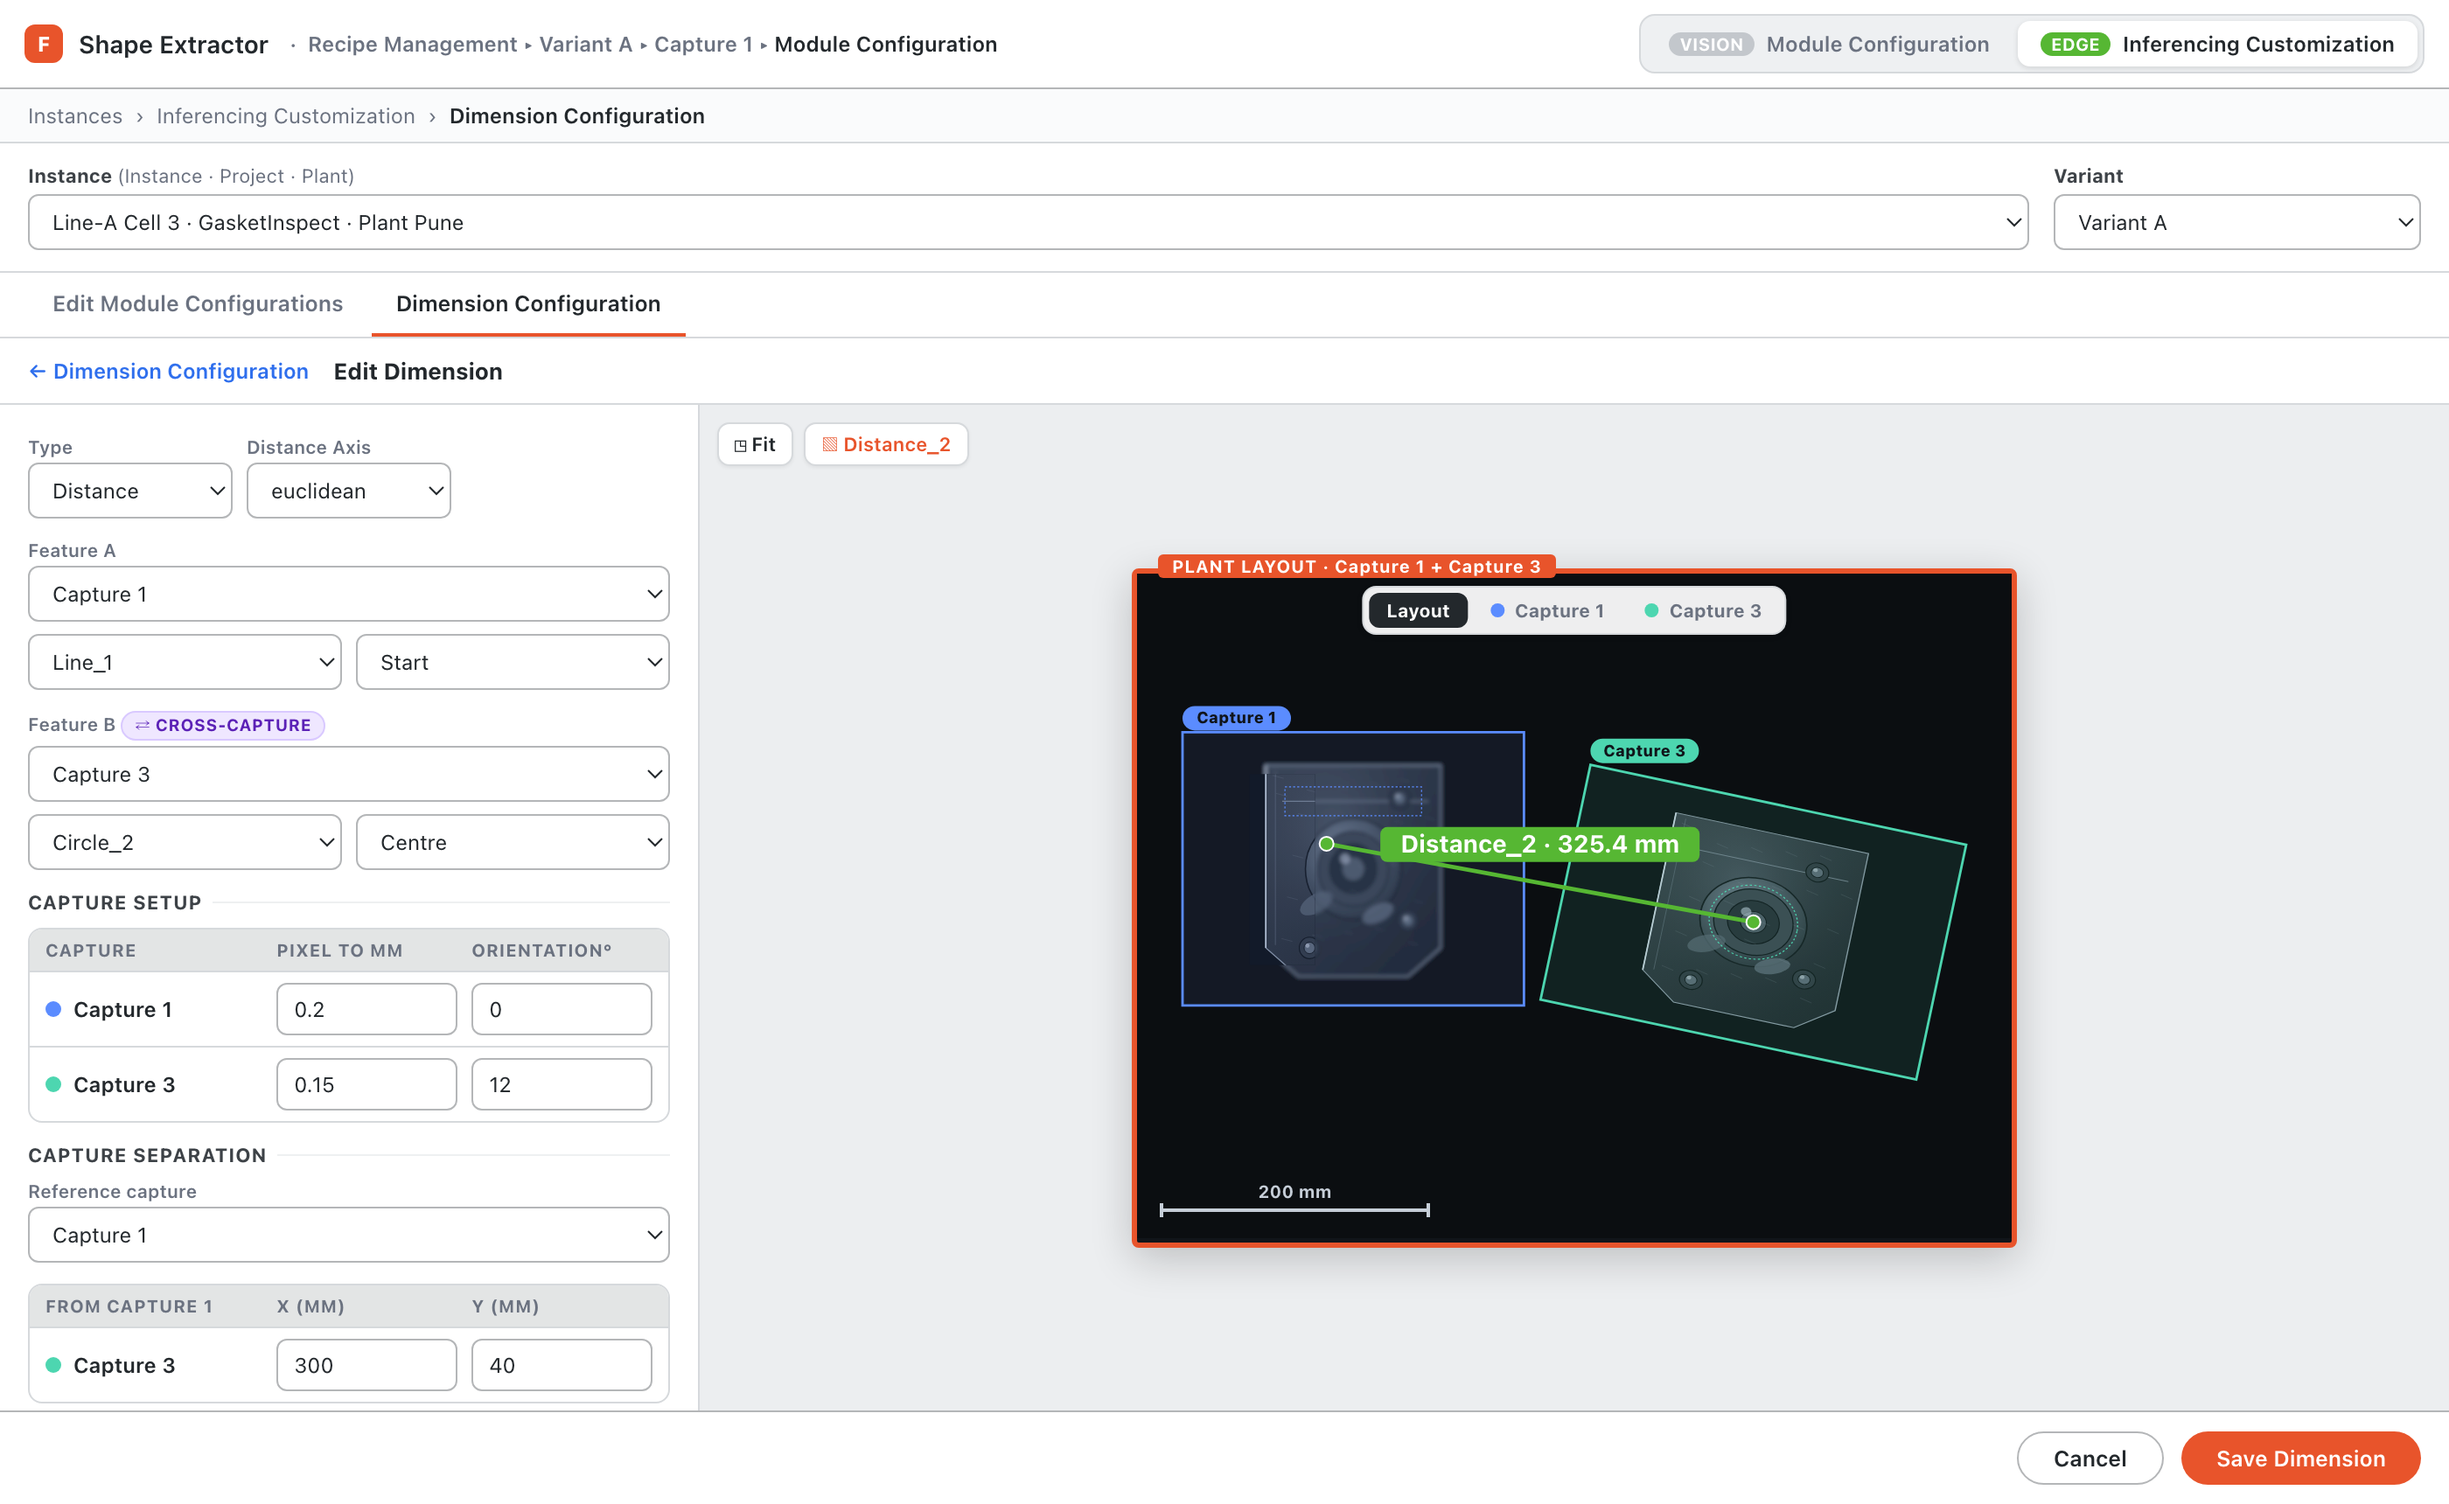
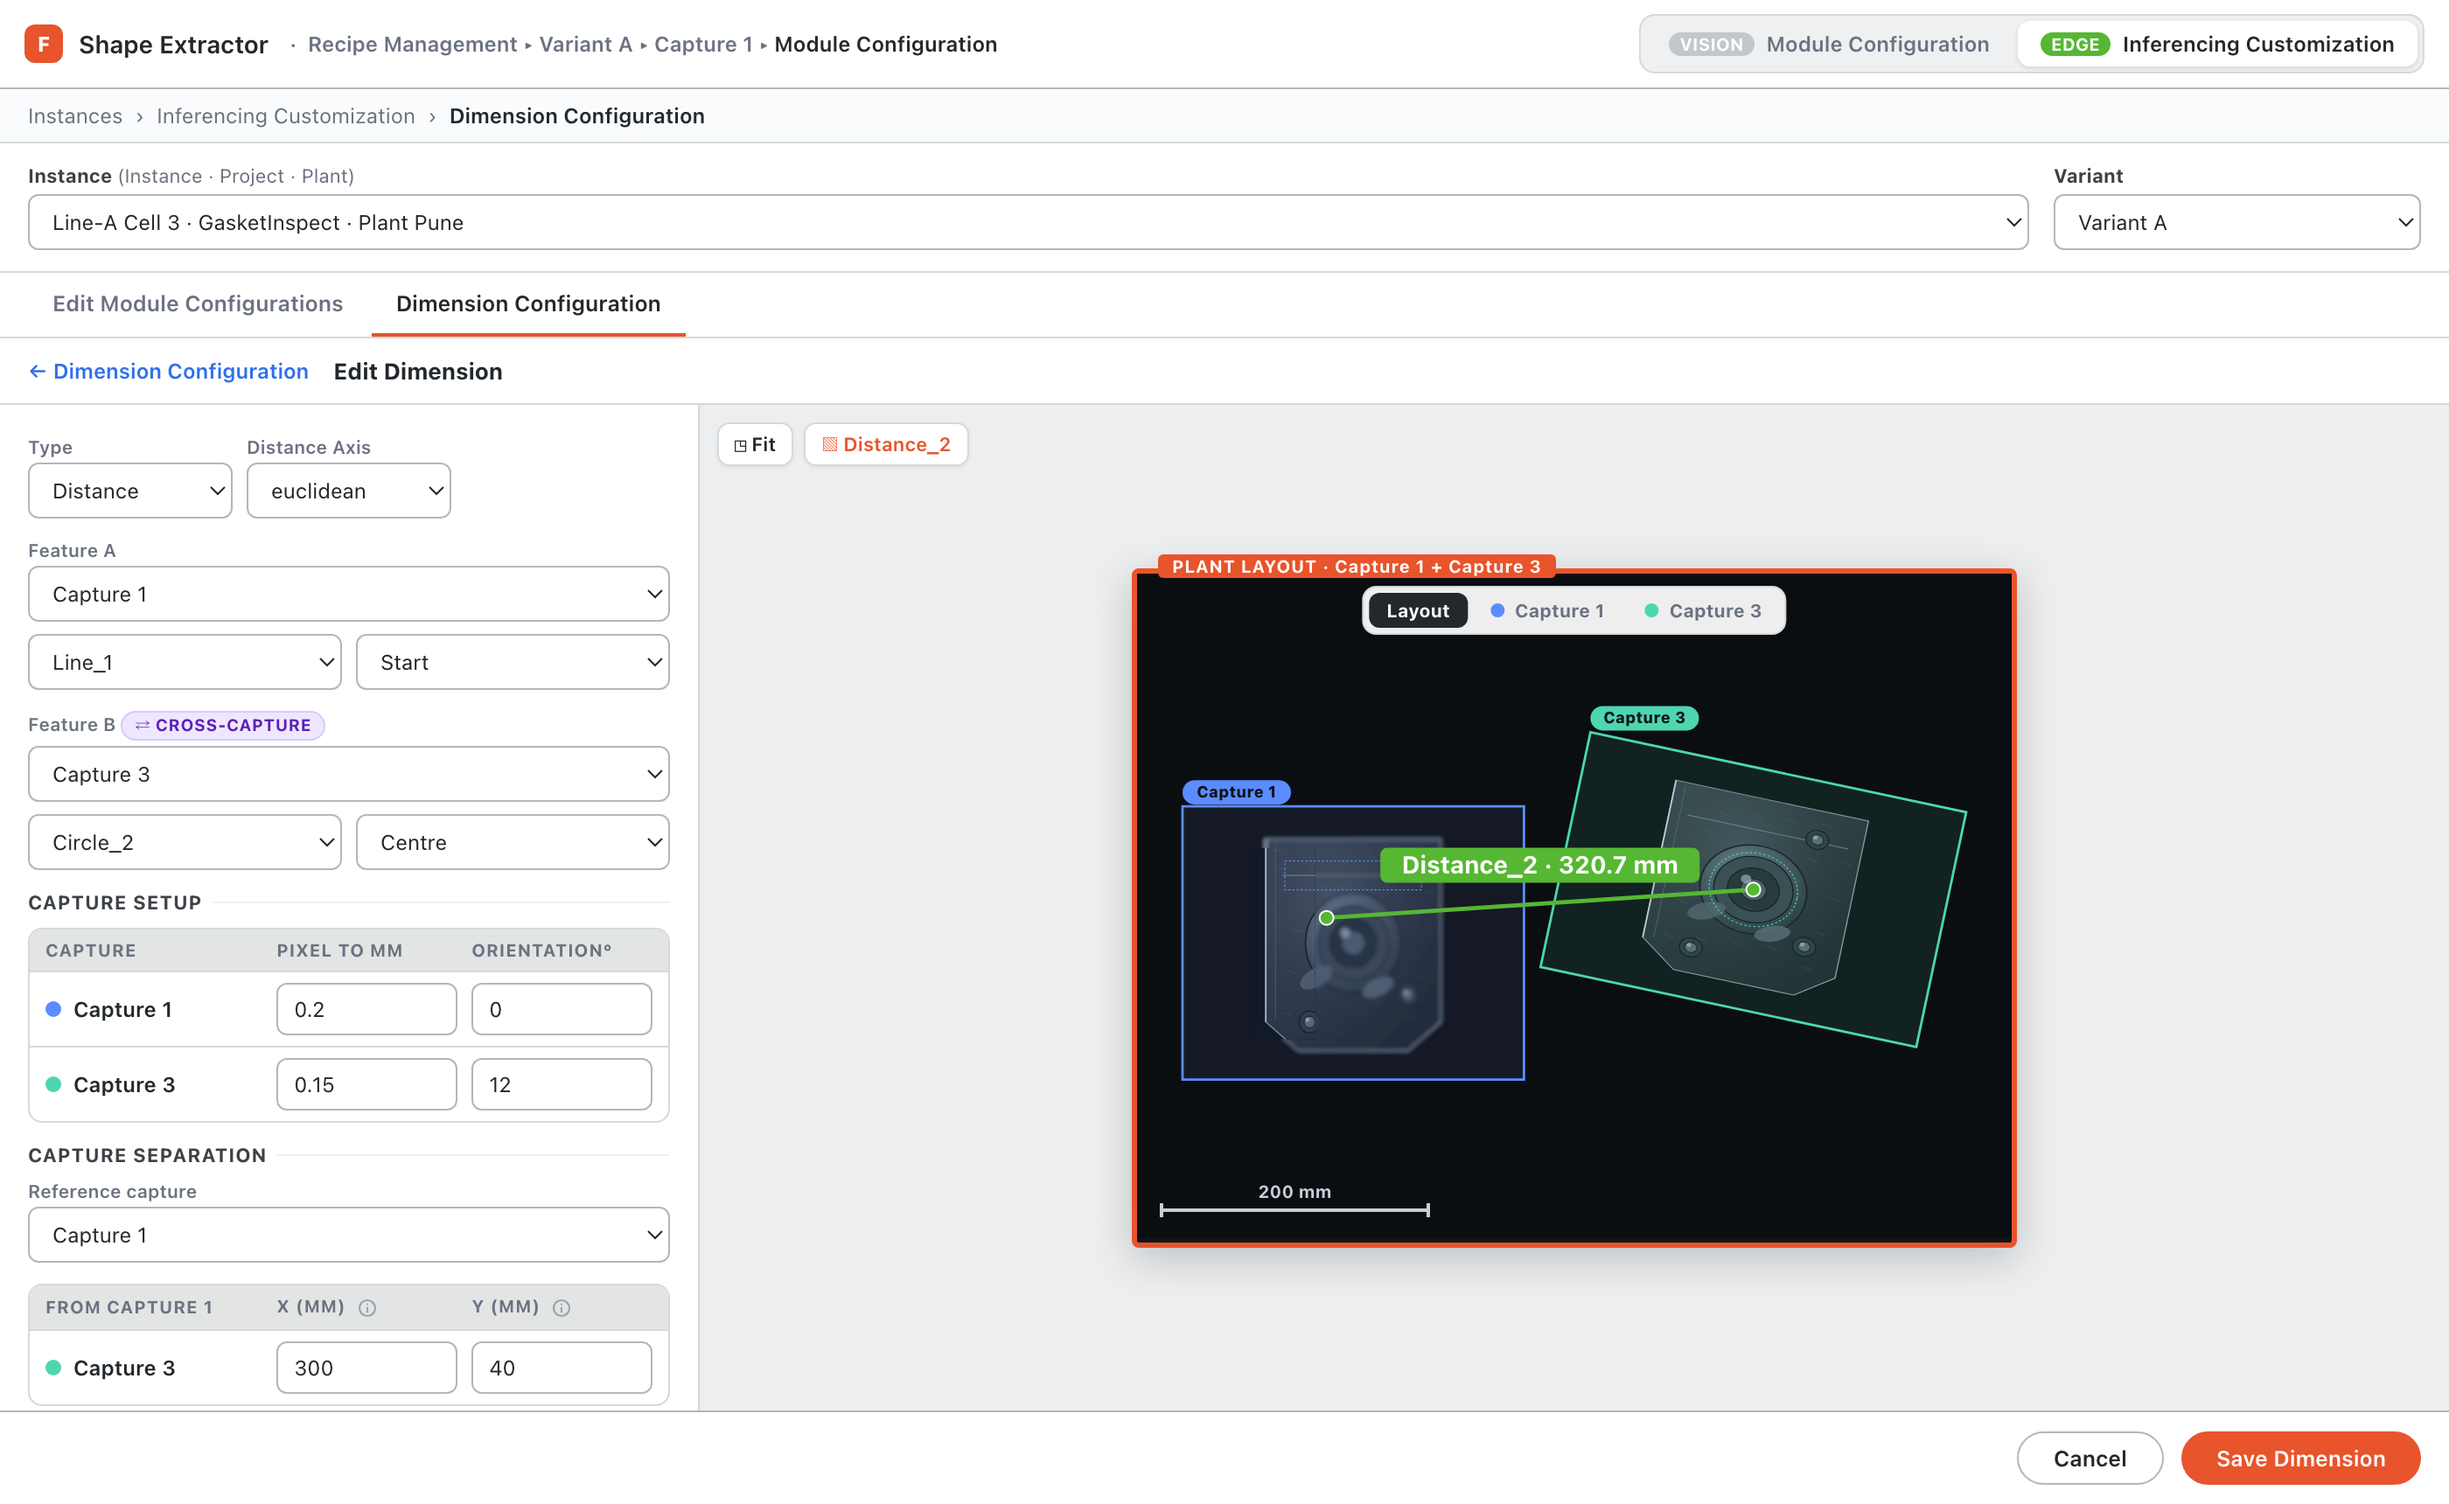
Capture -> shape -> point restored for every type; capture layout only appears when a dimension spans captures. Y separation reads bottom-to-top, X left-to-right, both with info tooltips. Changing the reference capture re-bases every separation

diff --git a/index.html b/index.html
@@ -406,10 +406,15 @@ const DEFAULT_LAYOUT = {
 // image footprint in mm = declared pixel size x the capture's ratio
 const capMM = (layout, id) => { const c = capById(id), r = layout.ratio[id] || 0.2; return { w: c.w * r, h: c.h * r }; };
 // a point in a capture's pixel space -> the variant's shared mm world
+// Separation is entered the way a person reads a layout drawing: X left to right, Y BOTTOM TO TOP.
+// The canvas draws with Y increasing downward, so the operator's Y is negated here, at the one
+// boundary where it enters the model. Everything downstream stays in drawing coordinates.
+const offInternal = (layout, id) => { const o = layout.offset[id] || { x: 0, y: 0 }; return { x: o.x, y: -o.y }; };
+
 function toWorld(layout, capId, px, py, imgW, imgH) {
   const r = layout.ratio[capId] || 0.2;
   const a = ((layout.angle[capId] || 0) * Math.PI) / 180;
-  const off = layout.offset[capId] || { x: 0, y: 0 };
+  const off = offInternal(layout, capId);
   const lx = (px - imgW / 2) * r, ly = (py - imgH / 2) * r;      // mm from this image's centre
   return [off.x + lx * Math.cos(a) - ly * Math.sin(a),
           off.y + lx * Math.sin(a) + ly * Math.cos(a)];
@@ -917,6 +922,14 @@ function ConfirmModal({ open, onKeep, onDiscard }) {
 }
 function TrashIcon() {
   return (<svg width="15" height="15" viewBox="0 0 24 24" fill="none" stroke="#6b7280" strokeWidth="2" strokeLinecap="round" strokeLinejoin="round"><polyline points="3 6 5 6 21 6" /><path d="M19 6l-1 14a2 2 0 0 1-2 2H8a2 2 0 0 1-2-2L5 6" /><path d="M10 11v6M14 11v6" /><path d="M9 6V4a2 2 0 0 1 2-2h2a2 2 0 0 1 2 2v2" /></svg>);
+}
+function InfoIcon() {
+  return (
+    <svg width="12" height="12" viewBox="0 0 24 24" fill="none" stroke="currentColor" strokeWidth="2.2">
+      <circle cx="12" cy="12" r="9" /><line x1="12" y1="11.5" x2="12" y2="16.5" strokeLinecap="round" />
+      <circle cx="12" cy="7.6" r="1.1" fill="currentColor" stroke="none" />
+    </svg>
+  );
 }
 function PencilIcon() {
   return (<svg width="13" height="13" viewBox="0 0 24 24" fill="none" stroke="currentColor" strokeWidth="2" strokeLinecap="round" strokeLinejoin="round"><path d="M12 20h9" /><path d="M16.5 3.5a2.12 2.12 0 0 1 3 3L7 19l-4 1 1-4L16.5 3.5z" /></svg>);
@@ -1496,7 +1509,7 @@ function seedDims(shapes) {
       distanceAxis: 'euclidean',
       captureOneId: cap('Line_1'), shapeOneId: id('Line_1'), shapeOneSelector: 'Start',
       captureTwoId: cap('Circle_2'), shapeTwoId: id('Circle_2'), shapeTwoSelector: 'Centre',
-      operator: 1, targetValue: 325, tolerance: 2, unit: 'mm',
+      operator: 1, targetValue: 320.7, tolerance: 2, unit: 'mm',
     }),
     base(1, 'Angle_1', {
       captureOneId: cap('Line_1'), shapeOneId: id('Line_1'), shapeOneSelector: 'Whole line',
@@ -1773,7 +1786,7 @@ function DimensionCanvas({ dim, shapes, layout }) {
   // ---- place every capture's footprint in the mm world, then fit the lot to the viewport ----
   const placed = caps.map((cid) => {
     const mm = capMM(layout, cid);
-    const off = layout.offset[cid] || { x: 0, y: 0 };
+    const off = offInternal(layout, cid);
     const ang = layout.angle[cid] || 0;
     const a = (ang * Math.PI) / 180, cs = Math.cos(a), sn = Math.sin(a);
     const corners = [[-mm.w / 2, -mm.h / 2], [mm.w / 2, -mm.h / 2], [mm.w / 2, mm.h / 2], [-mm.w / 2, mm.h / 2]]
@@ -1952,7 +1965,16 @@ function FeatureCascade({ node, patch, shapes, typeOpts, onType }) {
       ? { captureOneId: capId, shapeOneId: s0 ? s0.id : '', shapeOneSelector: defaultSelector(s0, node.type) }
       : { captureTwoId: capId, shapeTwoId: s0 ? s0.id : '', shapeTwoSelector: defaultSelector(s0, node.type) };
   };
-  const changeCaptureA = (capId) => patch(seedFeature('one', capId));
+  const changeCaptureA = (capId) => {
+    if (cfg.cross) return patch(seedFeature('one', capId));
+    // a type confined to one capture drags Feature B along with Feature A
+    const list = shapesIn(capId);
+    const s0 = list[0], s1 = list[1] || list[0];
+    patch({
+      captureOneId: capId, shapeOneId: s0 ? s0.id : '', shapeOneSelector: defaultSelector(s0, node.type),
+      captureTwoId: capId, shapeTwoId: s1 ? s1.id : '', shapeTwoSelector: defaultSelector(s1, node.type),
+    });
+  };
   const changeShape = (which, id) => {
     const sel = defSel(id);
     patch(which === 'one' ? { shapeOneId: id, shapeOneSelector: sel } : { shapeTwoId: id, shapeTwoSelector: sel });
@@ -1985,7 +2007,7 @@ function FeatureCascade({ node, patch, shapes, typeOpts, onType }) {
       </div>
       <div className="field">
         <span className="tinylab">{twoFeatures ? 'Feature A' : 'Feature'}</span>
-        {cfg.cross && captureSelect(capA, capOptsA, changeCaptureA)}
+        {captureSelect(capA, capOptsA, changeCaptureA)}
         <div className="feat">
           {shapeSelect(node.shapeOneId, capA, (e) => changeShape('one', e.target.value))}
           {showSubA && <select className="sel" value={node.shapeOneSelector} onChange={(e) => patch({ shapeOneSelector: e.target.value })}>{subOptsFor(node.shapeOneId).map((f) => <option key={f}>{f}</option>)}</select>}
@@ -2015,62 +2037,59 @@ function DimensionForm({ draft, setDraft, shapes, layout, setLayout }) {
   const changeType = (type) => patch({ type, name: DIM_TYPE_CFG[type].name + '_' + nameSuffix,
     ...typeDefaults(type, shapes, draft.captureOneId) });
 
-  // Types other than Distance live in a single capture, so the capture is picked here rather than
-  // being repeated in Feature A and Feature B.
-  const shapesInCap = (capId) => shapes.filter((x) => x.captureId === capId && shapeQualifies(x, draft.type));
-  const soleCapOpts = CAPTURES.filter((c) => shapesInCap(c.id).length > 0);
-  const changeSoleCapture = (capId) => {
-    const list = shapesInCap(capId);
-    const s0 = list[0], s1 = list[1] || list[0];
-    patch({
-      captureOneId: capId, shapeOneId: s0 ? s0.id : '', shapeOneSelector: defaultSelector(s0, draft.type),
-      captureTwoId: capId, shapeTwoId: s1 ? s1.id : '', shapeTwoSelector: defaultSelector(s1, draft.type),
-    });
-  };
-
   const caps = capturesUsed(draft);
   const ref = layout.referenceId;
   const setRatio = (id, v) => setLayout({ ...layout, ratio: { ...layout.ratio, [id]: v } });
   const setAngle = (id, v) => setLayout({ ...layout, angle: { ...layout.angle, [id]: v } });
   const setOffset = (id, k, v) => setLayout({ ...layout,
     offset: { ...layout.offset, [id]: { ...(layout.offset[id] || { x: 0, y: 0 }), [k]: v } } });
+  // Changing the reference re-expresses every separation against the new origin, overriding what was
+  // entered before: the new reference becomes (0, 0) and the old one picks up the inverse.
+  const changeReference = (newRef) => {
+    const base = layout.offset[newRef] || { x: 0, y: 0 };
+    const next = {};
+    CAPTURES.forEach((c) => {
+      const o = layout.offset[c.id] || { x: 0, y: 0 };
+      next[c.id] = { x: o.x - base.x, y: o.y - base.y };
+    });
+    setLayout({ ...layout, referenceId: newRef, offset: next });
+  };
   const others = caps.filter((c) => c !== ref);
 
   return (
     <div style={{ padding: '4px 2px' }}>
       <FeatureCascade node={draft} patch={patch} shapes={shapes} typeOpts={DIM_TYPE_OPTS} onType={changeType} />
 
-      {/* ---- how each capture maps into the variant's millimetre world ---- */}
-      <div className="block-t" style={{ marginTop: 12 }}>Capture Setup <span className="ln" /></div>
-      <div className="captbl">
-        <div className="cth"><span>Capture</span><span>Pixel to mm</span><span>Orientation°</span></div>
-        {caps.map((cid) => (
-          <div className="ctr" key={cid}>
-            {cfg.cross
-              ? <span className="cname"><span className="cd" style={{ background: capById(cid).tint }} />{capLabel(cid)}</span>
-              : <select className="sel" value={cid} onChange={(e) => changeSoleCapture(e.target.value)}>
-                  {soleCapOpts.map((c) => <option key={c.id} value={c.id}>{c.name}</option>)}
-                </select>}
-            <input className="inp" type="number" min="0" step="0.001" value={layout.ratio[cid] ?? 0.2}
-              onChange={(e) => setRatio(cid, Math.max(0, Number(e.target.value)))} />
-            <input className="inp" type="number" step="0.5" value={layout.angle[cid] ?? 0}
-              onChange={(e) => setAngle(cid, Number(e.target.value))} />
-          </div>
-        ))}
-      </div>
-
-      {/* ---- where the capture centres sit relative to one another ---- */}
-      {cfg.cross && caps.length > 1 && (
+      {/* ---- the capture layout only exists to relate TWO captures; a single-capture dimension
+              needs nothing but its scale, which is asked for with the ground truth below ---- */}
+      {caps.length > 1 && (
         <Fragment>
+          <div className="block-t" style={{ marginTop: 12 }}>Capture Setup <span className="ln" /></div>
+          <div className="captbl">
+            <div className="cth"><span>Capture</span><span>Pixel to mm</span><span>Orientation°</span></div>
+            {caps.map((cid) => (
+              <div className="ctr" key={cid}>
+                <span className="cname"><span className="cd" style={{ background: capById(cid).tint }} />{capLabel(cid)}</span>
+                <input className="inp" type="number" min="0" step="0.001" value={layout.ratio[cid] ?? 0.2}
+                  onChange={(e) => setRatio(cid, Math.max(0, Number(e.target.value)))} />
+                <input className="inp" type="number" step="0.5" value={layout.angle[cid] ?? 0}
+                  onChange={(e) => setAngle(cid, Number(e.target.value))} />
+              </div>
+            ))}
+          </div>
+
           <div className="block-t" style={{ marginTop: 12 }}>Capture Separation <span className="ln" /></div>
           <div className="field">
             <span className="tinylab">Reference capture</span>
-            <select className="sel" value={ref} onChange={(e) => setLayout({ ...layout, referenceId: e.target.value })}>
+            <select className="sel" value={ref} onChange={(e) => changeReference(e.target.value)}>
               {CAPTURES.map((c) => <option key={c.id} value={c.id}>{c.name}</option>)}
             </select>
           </div>
           <div className="captbl">
-            <div className="cth"><span>From {capLabel(ref)}</span><span>X (mm)</span><span>Y (mm)</span></div>
+            <div className="cth"><span>From {capLabel(ref)}</span>
+              <span>X (mm)<span className="eyehint" title="Measured left to right. A positive X places this capture to the right of the reference capture."><InfoIcon /></span></span>
+              <span>Y (mm)<span className="eyehint" title="Measured bottom to top. A positive Y places this capture above the reference capture."><InfoIcon /></span></span>
+            </div>
             {others.map((cid) => (
               <div className="ctr" key={cid}>
                 <span className="cname"><span className="cd" style={{ background: capById(cid).tint }} />{capLabel(cid)}</span>
@@ -2080,7 +2099,6 @@ function DimensionForm({ draft, setDraft, shapes, layout, setLayout }) {
                   onChange={(e) => setOffset(cid, 'y', Number(e.target.value))} />
               </div>
             ))}
-            {others.length === 0 && <div className="ctr one"><span className="cname">Both features are on {capLabel(ref)}</span></div>}
           </div>
         </Fragment>
       )}
@@ -2104,6 +2122,13 @@ function DimensionForm({ draft, setDraft, shapes, layout, setLayout }) {
             <div><span className="tinylab">Tolerance</span><input className="inp" type="number" min="0" value={draft.tolerance} onChange={(e) => patch({ tolerance: Math.max(0, Number(e.target.value)) })} /></div>
             <div><span className="tinylab">Unit</span><select className="sel" value={draft.unit} onChange={(e) => patch({ unit: e.target.value })}>{UNIT_OPTS.map((u) => <option key={u}>{u}</option>)}</select></div>
           </div>
+          {caps.length === 1 && draft.type !== 1 && (
+            <div className="field" style={{ marginTop: 10 }}>
+              <span className="tinylab">Ratio (pixel to mm)</span>
+              <input className="inp" type="number" min="0" step="0.001" value={layout.ratio[caps[0]] ?? 0.2}
+                onChange={(e) => setRatio(caps[0], Math.max(0, Number(e.target.value)))} />
+            </div>
+          )}
         </>
       )}
 
